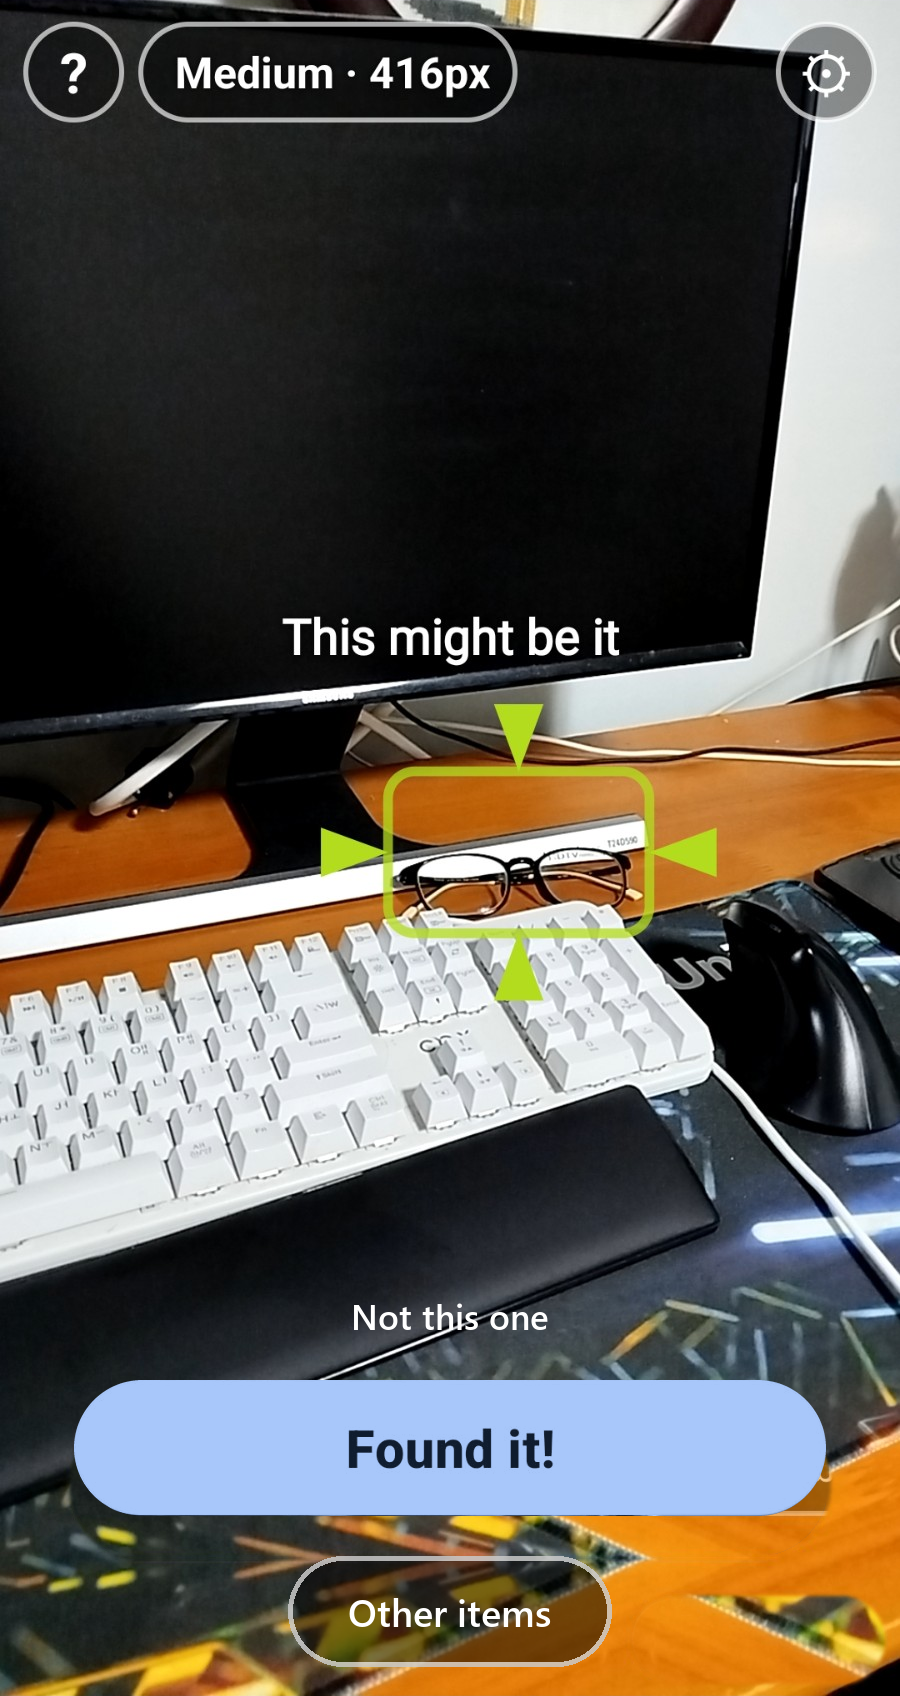
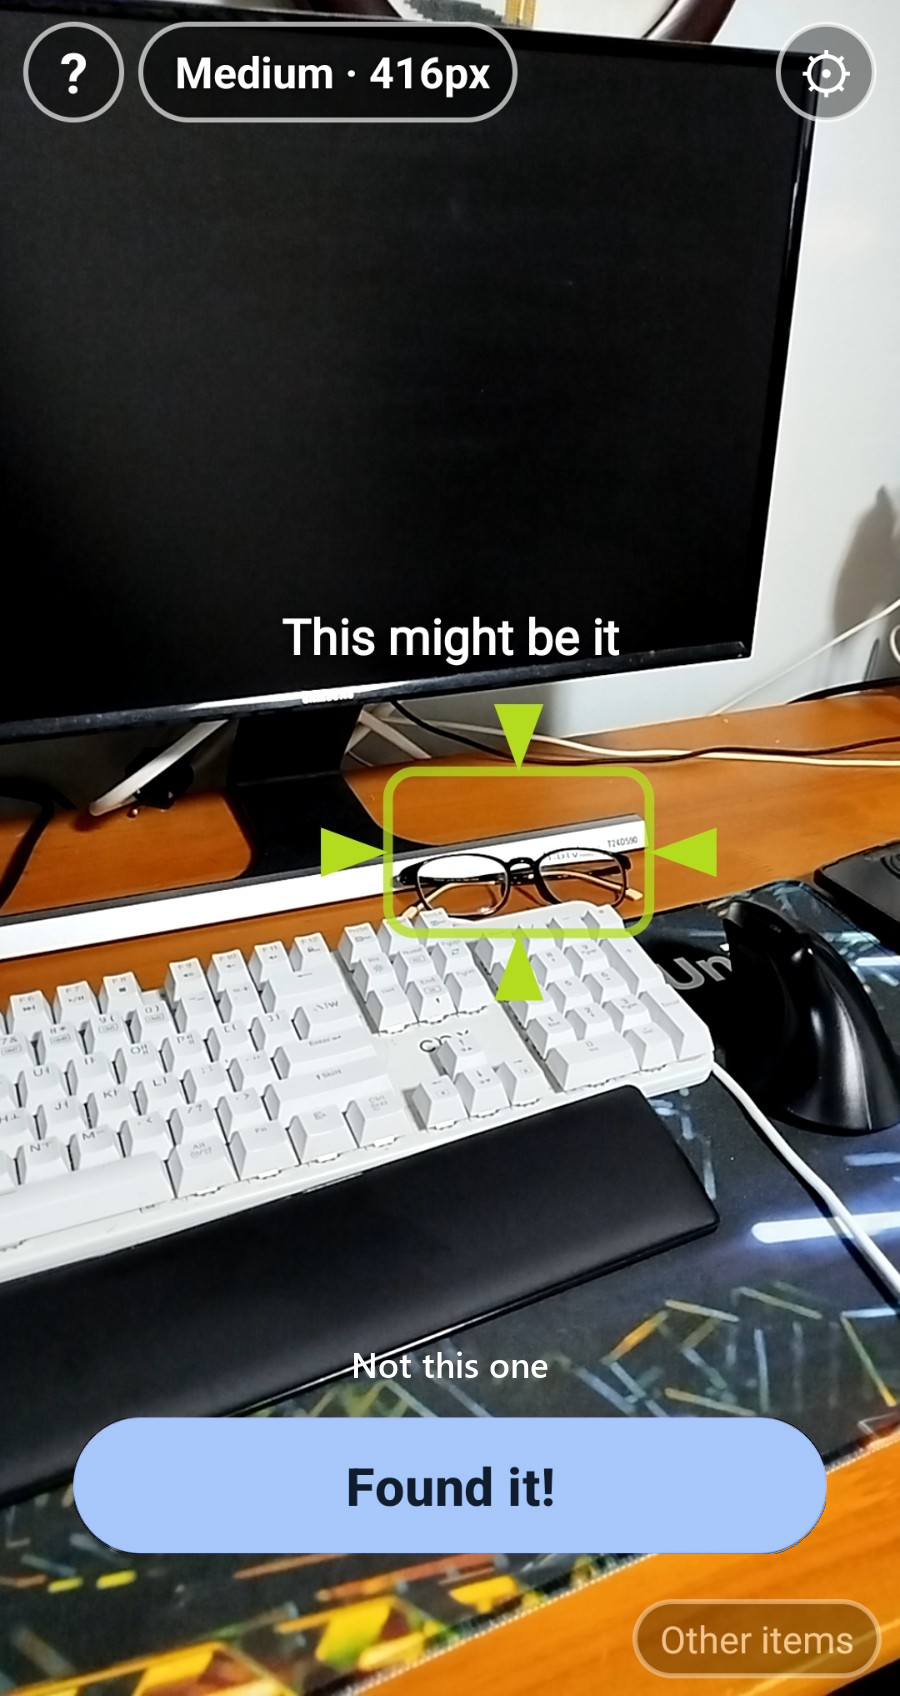
Search screenshot: keep the camera photo untouched (recolor the button in place, no moved or filled areas)

Changed region(s): [[0.0622, 0.75, 0.9956, 1.0]]

diff --git a/poc/scripts/render_store_screenshots.py b/poc/scripts/render_store_screenshots.py
@@ -1,8 +1,8 @@
 """스토어 스크린샷 두 장을 만든다 (폰에서 찍은 예전 버전 화면 → 지금 버전 모양으로).
 
 - 상태바, 내비게이션바, 하단 테스트 광고 줄을 잘라낸다 (900x1696, Play 의 2:1 제한 안).
-- 찾는 화면: 찾았어요 버튼을 강조색(연파랑)으로, "다른 물건" 버튼을 지금 자리(가운데 아래)로,
-  "이거 아니에요" 를 버튼 위에 넣는다. 예전 "다른 물건" 자리는 주변 배경으로 메운다.
+- 찾는 화면: 찾았어요 버튼을 제자리에서 강조색(연파랑)으로 바꾸고 "이거 아니에요" 를 위에 얹는다.
+  사진(카메라 화면)은 원본 그대로 둔다 — 옮기거나 메우지 않는다.
 - 찾았어요 화면: 노란 제목·테두리를 지금 색(흰 글자+파란 빛, 파란 테두리)으로 바꾸고
   지금 버전의 연출(숨쉬는 빛, 충격파, 불꽃, 반짝이, 색종이)을 합성한다.
 
@@ -58,57 +58,17 @@ def search_screen(src: Path) -> Image.Image:
     inside = np.asarray(bmask) > 0
     new = remap(btn, (208, 188, 252), (55, 32, 112), ACCENT, ON_ACCENT)
     btn[inside] = new[inside]
-    button = Image.fromarray(btn.copy())
 
-    # ── 비는 자리를 주변 배경을 거울처럼 비춰서 메운다 (번지지 않고 무늬가 이어진다).
-    # 버튼 모양 안쪽만 메우고 가장자리는 부드럽게 섞는다. 네모로 메우면 경계가 보인다.
-    orig = np.asarray(Image.open(src).convert("RGB"))
-    H0, W0 = orig.shape[:2]
-
-    def pill_mask(x0, y0, x1, y1, grow):
-        m = Image.new("L", (W0, H0), 0)
-        ImageDraw.Draw(m).rounded_rectangle(
-            [x0 - grow, y0 - grow, x1 + grow, y1 + grow], radius=(y1 - y0) / 2 + grow, fill=255)
-        return np.asarray(m.filter(ImageFilter.GaussianBlur(2))).astype(float)[..., None] / 255
-
-    # 옮기는 찾았어요 버튼 자리 — 버튼 바로 아래 배경을 위아래로 비춘다
-    seam = by1 + 4
-    ys_ = np.arange(H0)
-    src_y = np.clip(2 * seam - ys_, 0, H0 - 1)
-    mirror_v = orig[src_y]
-    m1 = pill_mask(bx0, by0, bx1, by1, 5)
-    # 예전 "다른 물건" (오른쪽 아래, x 635~880, y 1682~1757) — 왼쪽 배경을 좌우로 비춘다
-    ox0 = 628
-    src_x = np.clip(2 * ox0 - np.arange(W0), 0, W0 - 1)
-    mirror_h = orig[:, src_x]
-    m2 = pill_mask(636, 1682, 878, 1757, 6)
-    a = (a * (1 - m1) + mirror_v * m1).astype(np.uint8)
-    a = (a * (1 - m2) + mirror_h * m2).astype(np.uint8)
-
+    # 사진은 원본 그대로 둔다. 버튼을 옮기거나 지우고 빈 자리를 배경으로 메우면
+    # 바닥이 우글우글하게 늘어나 보인다. 버튼은 제자리에서 색만 바꾸고,
+    # "다른 물건" 도 찍힌 자리(오른쪽 아래)에 그대로 둔다.
     img = Image.fromarray(a)
     d = ImageDraw.Draw(img, "RGBA")
-
-    # ── 지금 배치: 아래에서부터 [다른 물건] 12dp 위 → [찾았어요] 16dp 위 → [이거 아니에요]
     W = img.width
-    pill_h = int(44 * DP)
-    pill_bottom = BOTTOM - int(12 * DP)
-    pill_top = pill_bottom - pill_h
-    f_other = ImageFont.truetype(FONT_SB, int(16 * DP * 0.95))
-    tw = d.textlength("Other items", font=f_other)
-    pill_w = int(tw + 2 * 20 * DP + 8 * DP)    # paddingStart/End 20dp + 배경 padding
-    px0 = (W - pill_w) // 2
-    d.rounded_rectangle([px0, pill_top, px0 + pill_w, pill_bottom], radius=int(22 * DP),
-                        fill=(0, 0, 0, 136), outline=(255, 255, 255, 170), width=int(2 * DP))
-    d.text((W / 2, (pill_top + pill_bottom) / 2), "Other items", font=f_other,
-           fill=(255, 255, 255, 255), anchor="mm")
-
-    found_bottom = pill_top - int(16 * DP)
-    found_top = found_bottom - button.height
-    img.paste(button, (bx0, found_top), bmask)
-
+    # 지금 버전에 있는 "이거 아니에요" 만 버튼 위에 글자로 얹는다 (배경은 건드리지 않는다)
     f_not = ImageFont.truetype(FONT_SB, int(15 * DP * 0.95))
-    not_cy = found_top - int(2 * DP) - int(24 * DP)
-    d.text((W / 2, not_cy), "Not this one", font=f_not, fill=(255, 255, 255, 216), anchor="mm")
+    d.text((W / 2, by0 - int(2 * DP) - int(20 * DP)), "Not this one", font=f_not,
+           fill=(255, 255, 255, 216), anchor="mm")
 
     return img.crop((0, TOP, W, BOTTOM))
 
